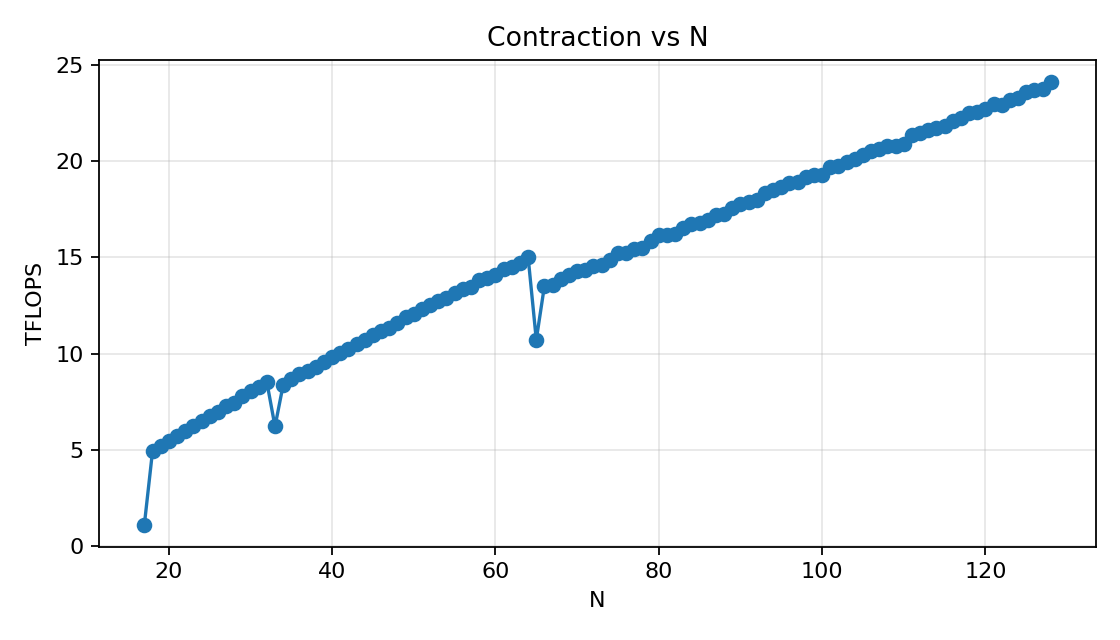
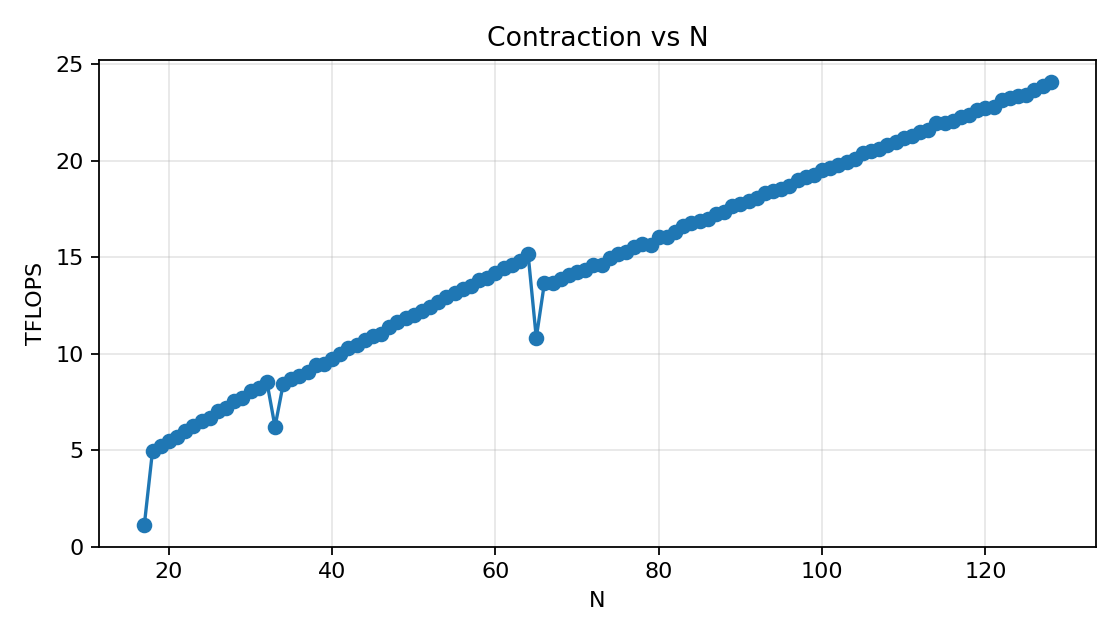
docs for benchmark 1

diff --git a/docs/source/submissions/04_tensor_contractions.rst b/docs/source/submissions/04_tensor_contractions.rst
@@ -385,6 +385,7 @@ In each iteration of the sweep, we create new random tensors with the current di
 The benchmark uses a warmup time of 100 ms and a repetition time of 1000 ms.
 After the benchmark, we compute the achieved TFLOPS and store it for plotting.
 The plot is then created with Matplotlib, where we plot the achieved TFLOPS against the swept dimension size.
+Lastly, we also save the results in a CSV file for further analysis.
 
 .. code-block:: python
 
@@ -425,7 +426,12 @@ The plot is then created with Matplotlib, where we plot the achieved TFLOPS agai
             plt.ylabel("TFLOPS")
             plt.grid(True, alpha=0.3)
             plt.tight_layout()
-            plt.savefig("task3_n_bandwidth.png", dpi=160)
+            plt.savefig("task3_n_throughput.png", dpi=160)
+
+            with open("task3_n_throughput.csv", "w", newline="") as f:
+                writer = csv.writer(f)
+                writer.writerow(["N", "TFLOPS"])
+                writer.writerows(zip(Ns, compute))
         
         elif k == 0:
             Ks = []
@@ -461,7 +467,12 @@ The plot is then created with Matplotlib, where we plot the achieved TFLOPS agai
             plt.ylabel("TFLOPS")
             plt.grid(True, alpha=0.3)
             plt.tight_layout()
-            plt.savefig("task3_k_bandwidth.png", dpi=160)
+            plt.savefig("task3_k_throughput.png", dpi=160)
+
+            with open("task3_k_throughput.csv", "w", newline="") as f:
+                writer = csv.writer(f)
+                writer.writerow(["K", "TFLOPS"])
+                writer.writerows(zip(Ks, compute))
 
 Benchmark 1
 """""""""""""
@@ -477,10 +488,27 @@ Here, we achieved the following results:
 .. image:: ../../../src/assignments/04_assignment/task3_n_throughput.png
     :alt: Throughput Plot for the sweep over N
 
-The plot shows that the achieved TFLOPS increases linearly with the size of the ``n`` dimension, 
-which is expected as larger dimensions typically allow for better utilization of the GPU's computational resources.
-However, we see notable drops in performance at ``n=16``, ``n=32`` and ``n=64``.
+Within each constant ``tN`` segment the achieved TFLOPS grows roughly linearly with ``n``.
+The GPU runtime stays approximately constant across a segment because the tile count and tile size are fixed, 
+while the counted FLOPs scale proportionally with ``n``.
 
+Three drops are visible at ``n=17``, ``n=33``, and ``n=65``.
+At each of these points ``cdiv(n, tN)`` jumps from 2 to 3 tiles:
+
+- ``n=17``, ``tN=8``: 3 tiles, last tile contains only 1 of 8 elements.
+- ``n=33``, ``tN=16``: 3 tiles, last tile contains only 1 of 16 elements.
+- ``n=65``, ``tN=32``: 3 tiles, last tile contains only 1 of 32 elements.
+
+The kernel executes a nearly empty third tile for every output block, 
+performing MMA over mostly zero padded data while the FLOPS numerator only counts the real elements.
+
+At ``n=18``, ``n=34``, and ``n=66``, ``tN`` doubles because ``n // 2`` crosses a power of two boundary (8 to 9, 16 to 17, and 32 to 33 respectively), 
+so the tile count returns to 2.
+However, the performance does not immediately return to the level before the drop.
+At ``n=66`` for example, ``tN=64`` and the two tiles together span 128 elements, but only 66 of these are real data.
+The GPU does more actual work per block than at ``n=64`` with ``tN=32``, but the counted FLOPS are nearly the same.
+As a result, ``n=66`` achieves 13.67 TFLOPS while ``n=64`` achieved 15.14 TFLOPS, and performance only recovers to that level around ``n=74``.
+From there, the TFLOPS continue growing linearly.
 
 Benchmark 2
 """""""""""""
@@ -495,3 +523,7 @@ Here, we achieved the following results:
 
 .. image:: ../../../src/assignments/04_assignment/task3_k_throughput.png
     :alt: Throughput Plot for the sweep over K
+
+For the most part, the FLOPs increase linearly with the size of the ``k`` dimension,
+however we have frequent spikes in performance. These spikes occur at ``k=24``, ``k=40``, ``k=48``, ``k=56``, ``k=64``, and so on in increments of 8..
+*TODO: why?*
